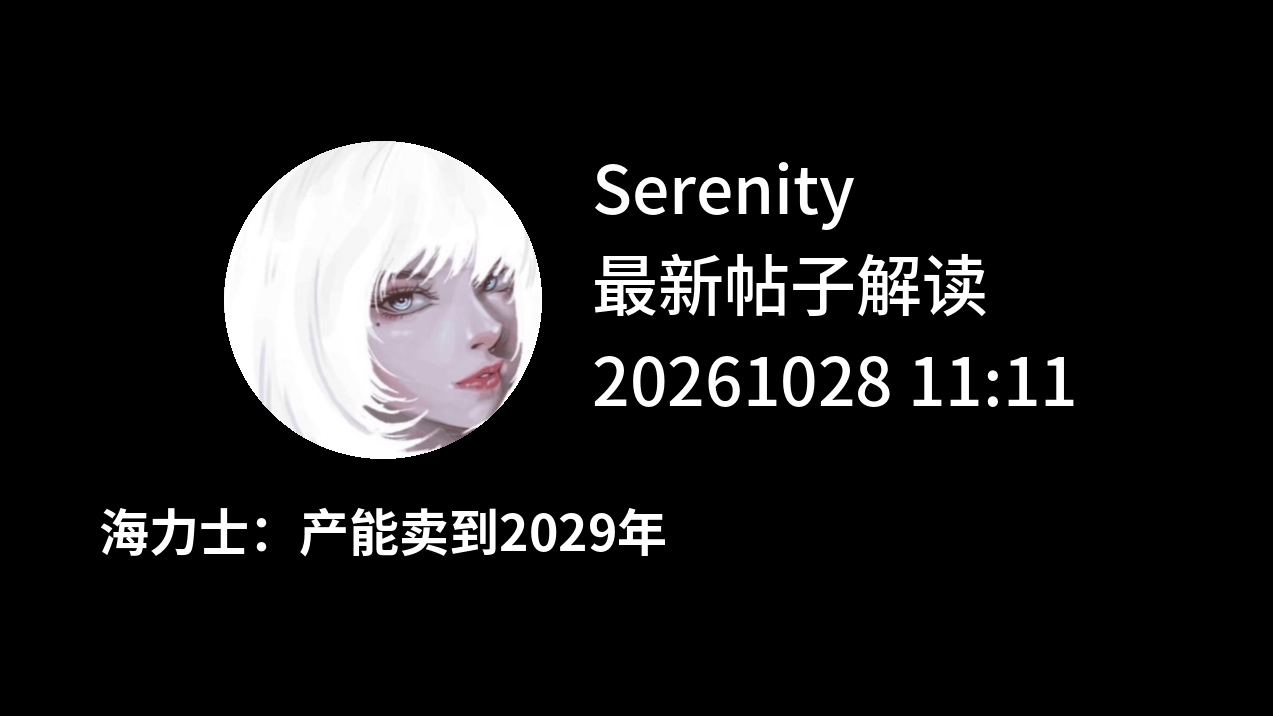
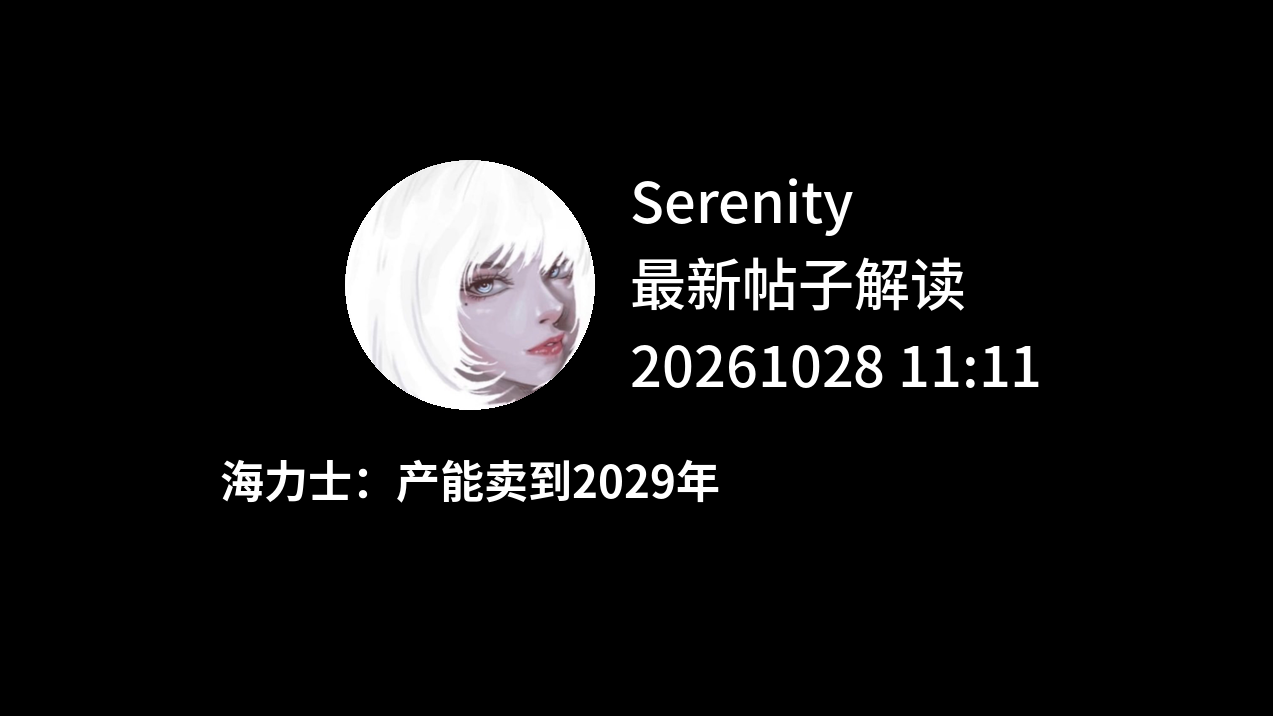
Serenity covers: 4:3 safe zone, cover.py helper
Claude-Session: https://claude.ai/code/session_015ea4NsPFBFsDCRBdgbtW5b

Changed region(s): [[0.0613, 0.1844, 0.8578, 0.7989]]

diff --git a/serenity/cover.py b/serenity/cover.py
@@ -1,0 +1,18 @@
+# -*- coding: utf-8 -*-
+# 用法: python3 cover.py 20261028 11:11 "海力士：产能卖到2029年" out.png
+# 安全区：B站 4:3 首页推荐裁切约保留中间 x∈[197,1076], y∈[29,688]（1273×716 画布），所有文字留在 x 215–1058 内
+import sys
+from PIL import Image, ImageDraw, ImageFont
+W,H=1273,716; FD='/usr/share/fonts/opentype/noto/NotoSansCJK-%s.ttc'
+font=lambda w,s:ImageFont.truetype(FD%w,s,index=2)
+def make(date,tm,title,out,safe_preview=False):
+    T=Image.open('references/封面模板_1273x716.png').convert('RGB'); cx,cy,r=690,620,286
+    D=250; av=T.crop((cx-r,cy-r,cx+r,cy+r)).resize((D,D),Image.LANCZOS)
+    m=Image.new('L',(D,D),0); ImageDraw.Draw(m).ellipse((0,0,D-1,D-1),fill=255)
+    cov=Image.new('RGB',(W,H)); AX,AY=470,285; cov.paste(av,(AX-D//2,AY-D//2),m); d=ImageDraw.Draw(cov); TX=630
+    for dy,t in ((-62,'Serenity'),(20,'最新帖子解读'),(102,f'{date} {tm}')): d.text((TX,AY+dy),t,font=font('Medium',56),fill='white',anchor='ls')
+    d.text((AX,AY+D//2+68),title,font=font('Bold',44),fill='white',anchor='mm')
+    bb=d.textbbox((AX,AY+D//2+68),title,font=font('Bold',44),anchor='mm'); print('title x',bb[0],bb[2]); cov.save(out)
+    if safe_preview:
+        p=cov.copy(); ImageDraw.Draw(p).rectangle((197,29,1076,688),outline=(255,60,60),width=3); p.save('/tmp/claude-0/safe.png')
+if __name__=='__main__': make(*sys.argv[1:5])

diff --git a/serenity/CLAUDE.md b/serenity/CLAUDE.md
@@ -48,3 +48,7 @@
 ## 交接注意
 
 Claude 看不到 ChatGPT 的历史记忆，也不会自动获得这里的图片。用户应把本说明、封面模板和拼图样张上传到 Claude；做新帖时再上传原帖截图。若 Claude 当前环境不能生成或导出图片文件，应直说能力限制，先交付可用的标题与配音稿，再按用户可用的工具制作图片。
+
+## 封面安全区（2026-10-29 新增）
+
+B站“首页推荐 4:3”会把 16:9 封面裁成中间约 x 197–1076、y 29–688（1273×716 画布）。所有文字、头像必须留在这个范围内，标题仍保持在头像圆心正下方居中。生成封面请用 `serenity/cover.py`：`python3 cover.py 20261028 11:11 "封面标题" out.png`（需在 serenity 目录下运行）。
